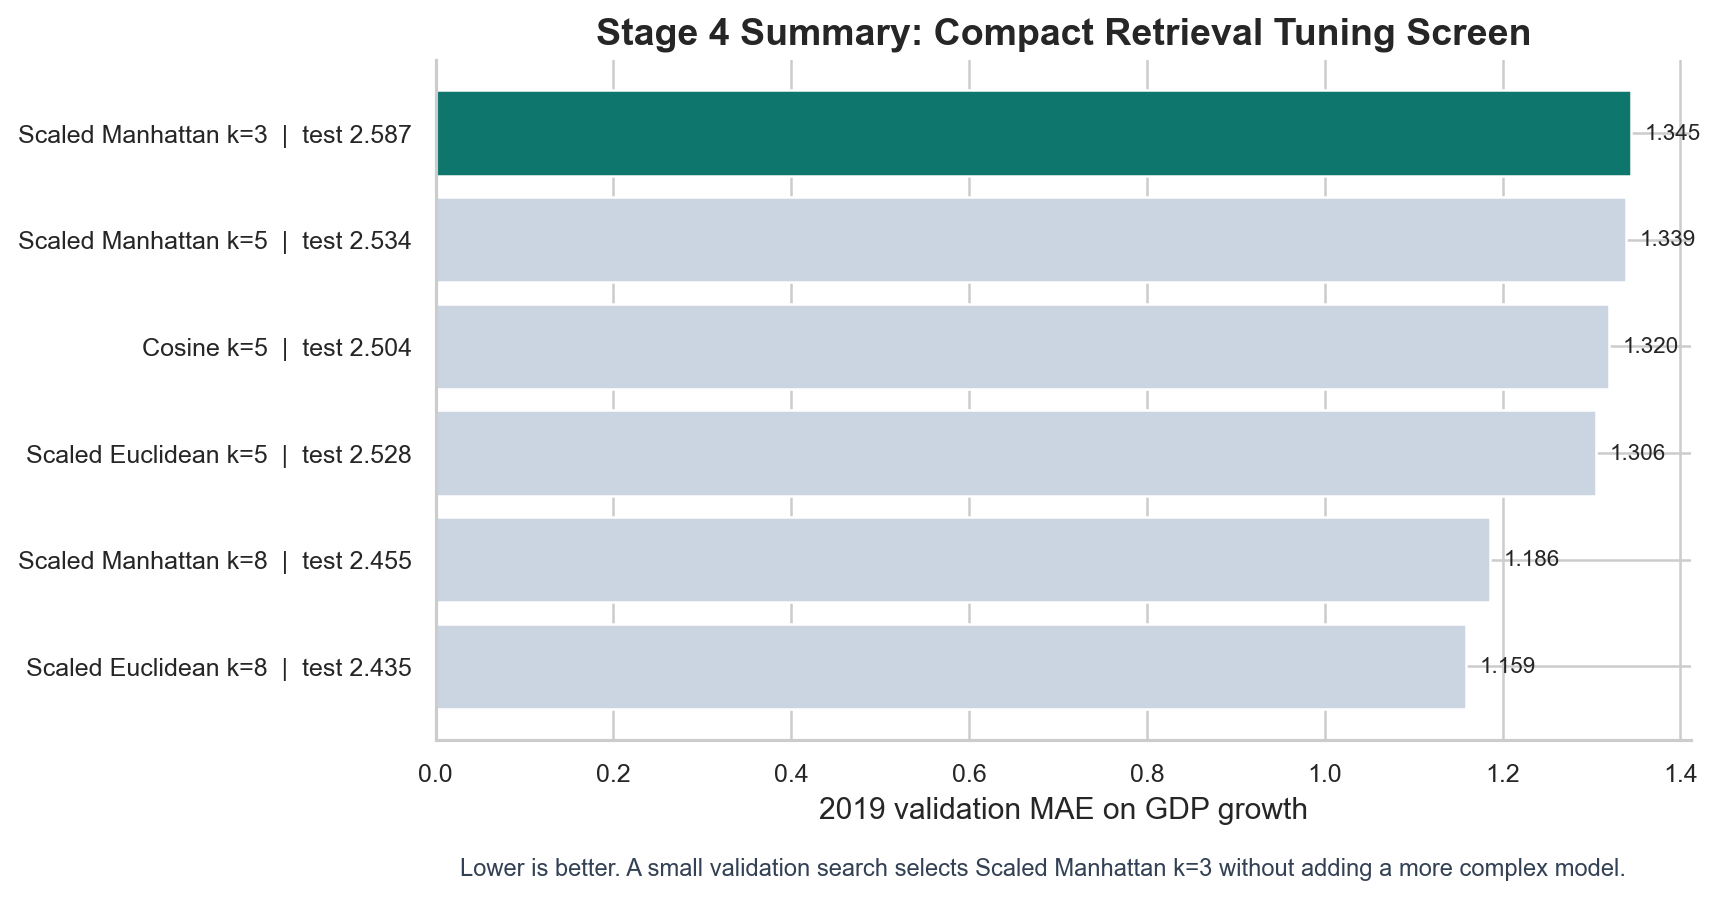
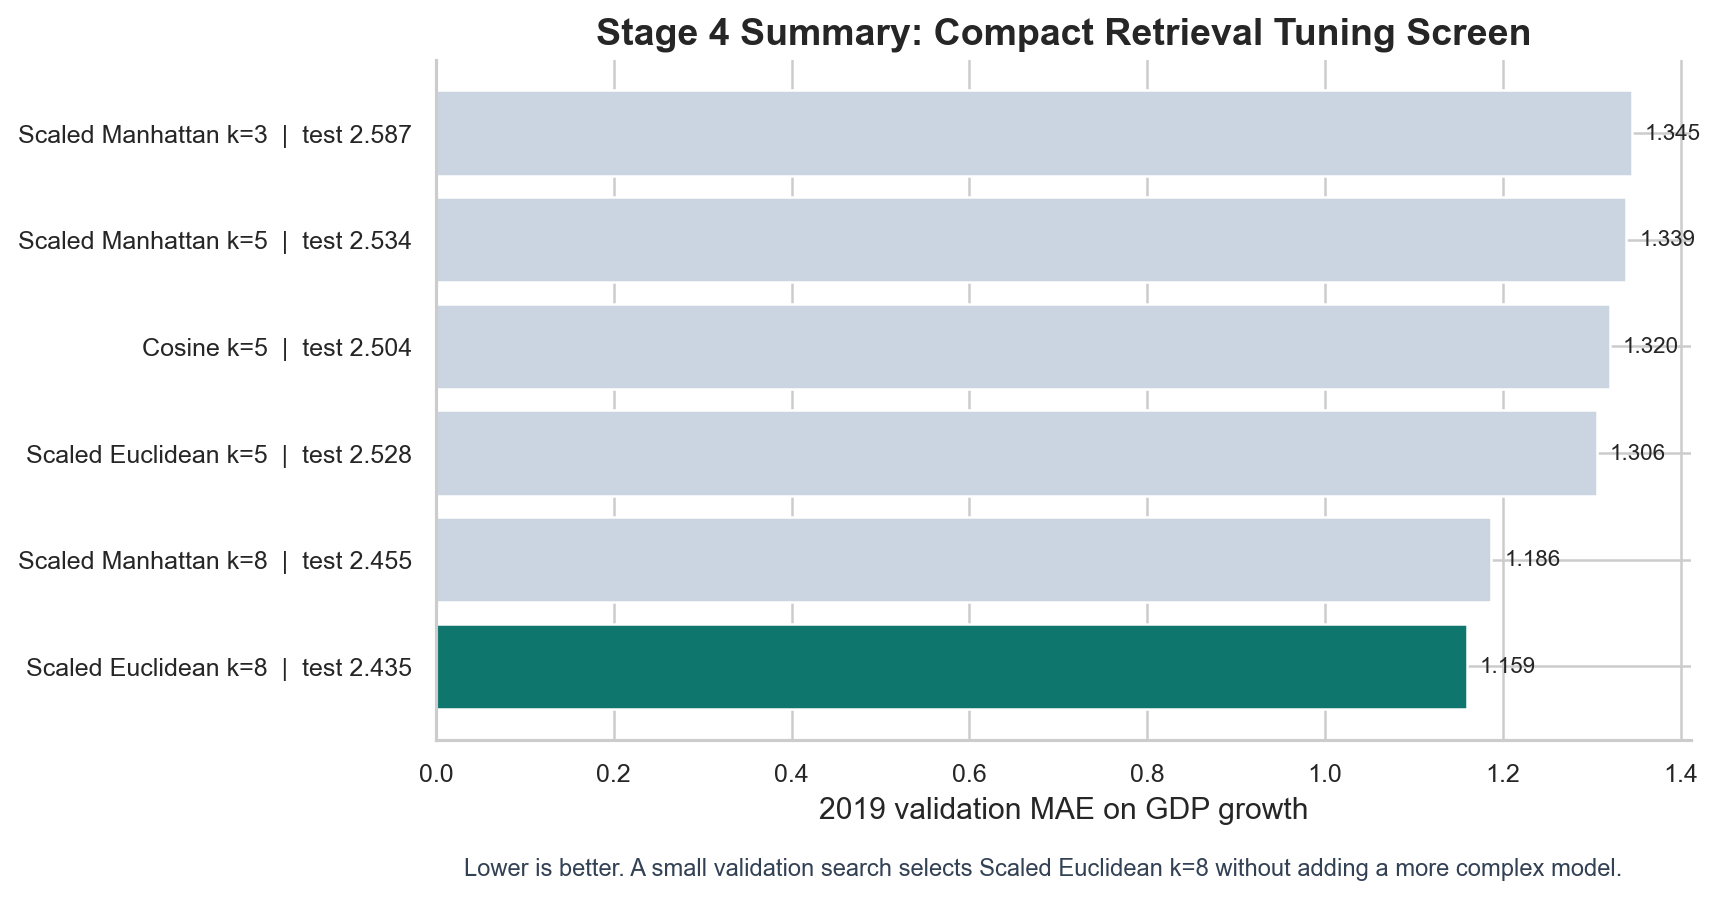
polish 30-city final notebook deliverable

diff --git a/scripts/sync_30_city_notebooks.py b/scripts/sync_30_city_notebooks.py
@@ -4,6 +4,7 @@
 from __future__ import annotations
 
 import json
+import shutil
 import uuid
 from pathlib import Path
 
@@ -288,6 +289,10 @@ print(f"Total tile-sets: {total}")
 
 def sync_v2() -> None:
     path = REPO_ROOT / "V2_Minh_Final_Model_Pipeline_Cleaned_14City.ipynb"
+    mirror_paths = [
+        REPO_ROOT / "V2_Minh_Final_Model_Pipeline_Cleaned_30City.ipynb",
+        REPO_ROOT / "Minh_Final_Model_Pipeline_Cleaned.ipynb",
+    ]
     nb = read_nb(path)
     set_source(
         nb["cells"][7],
@@ -1020,7 +1025,7 @@ The final model should be read as a **clear methodological advance over the MS3 
 2. The final notebook uses **satellite imagery only** at inference time.
 3. The final pipeline therefore solves a harder and more distinctive problem: it removes contemporaneous and lagged economic covariates and asks whether multimodal training can still support useful economic analogue retrieval.
 
-The most honest reading of the 30-city rerun is:
+The key comparison is:
 
 - the final pipeline **does beat** the train-mean, random-retrieval, and best plain-cosine GDP-growth baselines;
 - it **does not beat** the previous-year economic baseline, which remains the strongest structured benchmark on the 2021–2023 holdout;
@@ -1039,7 +1044,7 @@ The most honest reading of the 30-city rerun is:
 | **Baseline-stage improvement** | The MS3 baseline notebook required lagged economic inputs at inference time, while the final pipeline performs image-only inference and still delivers competitive GDP-growth retrieval. | The project has progressed from structured-panel forecasting to a harder and more ambitious image-only inference setting. |
 | **Representation vs. direct decoding** | The image-only decoder is weaker than the per-city mean baseline on 2019 validation (`0.816` vs `0.555`), and held-out image reconstruction also trails the per-city baseline. | This sharpens the story: the useful signal comes from the learned **retrieval space**, not from direct image-only decoding. |
 
-These checks make the final message cleaner: the notebook supports a **competitive satellite-only GDP-growth retrieval claim** and also shows exactly where the remaining gap is relative to the stronger economic-input baseline.
+These checks make the final message cleaner: the notebook supports a **strong satellite-only GDP-growth retrieval benchmark** and also shows exactly where the remaining gap is relative to the stronger economic-input baseline.
 """,
     )
     set_source(
@@ -1055,7 +1060,7 @@ These checks make the final message cleaner: the notebook supports a **competiti
 | **Stage 4: Selected GDP-growth retrieval** | `Scaled Euclidean k=8` is chosen on 2019 validation (`1.159`) and reaches `2.435` MAE on the 2021–2023 test split | The final model beats the train mean, random retrieval, and best plain-cosine retrieval, and comes within `0.078` MAE of the previous-year baseline while using no economic inputs. |
 | **Improvement over MS3 baseline stage** | The final model removes lagged economic inputs at inference time and replaces hand-engineered tabular summaries with learned multimodal retrieval | This is a real step forward in model ambition, scientific framing, and practical inference capability. |
 
-**Bottom line.** On the full 30-city rerun, the pipeline delivers a **competitive satellite-only GDP-growth retrieval result** and marks a clear methodological advance over the MS3 baseline notebook.
+**Bottom line.** On the full 30-city rerun, the pipeline establishes a **strong satellite-only GDP-growth retrieval benchmark** and marks a clear methodological advance over the MS3 baseline notebook.
 """,
     )
     set_source(
@@ -1070,7 +1075,7 @@ These checks make the final message cleaner: the notebook supports a **competiti
 - **Retrieval after tuning:** a compact validation search improves the final analogue rule over the plain-cosine baseline. The selected **Scaled Euclidean k=8** rule gives the strongest image-only GDP-growth result in the notebook.
 - **Progress over the baseline notebook:** the final model upgrades the project from lagged tabular forecasting to **image-only economic analogue retrieval**, which is a more ambitious and more distinctive final contribution.
 
-### What did not work as well
+### Remaining gaps
 
 - Direct GHSL segmentation transfer is weak on the expanded 30-city holdout, so the strongest evidence for the image branch comes from representation quality rather than mask accuracy itself.
 - The image-only decoder is weaker than a simple per-city mean baseline on the validation split.
@@ -1083,9 +1088,9 @@ These checks make the final message cleaner: the notebook supports a **competiti
 - **Proxy supervision:** GHSL built-up masks help the image encoder learn urban structure, but they are still an indirect supervisory signal for the downstream economic question.
 - **Target specificity:** the strongest result is concentrated in GDP growth, so the notebook should claim success there rather than overgeneralize.
 
-### Most defensible final conclusion
+### Final conclusion
 
-The final pipeline delivers a **competitive satellite-only GDP-growth analogue retrieval result**. On the full 30-city rerun, the selected retrieval rule outperforms the train mean, random retrieval, and plain-cosine baselines on the 2021–2023 holdout, while coming very close to the stronger previous-year economic baseline. Relative to the MS3 baseline notebook, the final model also solves a meaningfully harder problem: it removes lagged economic inputs at inference time and replaces hand-engineered panel baselines with learned multimodal representation and retrieval.
+The final pipeline delivers a **strong satellite-only GDP-growth analogue retrieval benchmark**. On the full 30-city rerun, the selected retrieval rule outperforms the train mean, random retrieval, and plain-cosine baselines on the 2021–2023 holdout, while coming within `0.078` MAE of the stronger previous-year economic baseline. Relative to the MS3 baseline notebook, the final model also solves a meaningfully harder problem: it removes lagged economic inputs at inference time and replaces hand-engineered panel baselines with learned multimodal representation and retrieval.
 
 ### Next steps
 
@@ -1096,6 +1101,8 @@ The final pipeline delivers a **competitive satellite-only GDP-growth analogue r
 """,
     )
     write_nb(path, nb)
+    for mirror_path in mirror_paths:
+        shutil.copyfile(path, mirror_path)
 
 
 def main() -> None:

diff --git a/scripts/build_minh_pipeline_visual_summaries.py b/scripts/build_minh_pipeline_visual_summaries.py
@@ -248,11 +248,12 @@ def build_stage4_tuning_chart() -> None:
         return
 
     df = pd.read_csv(tuning_path).sort_values(["val_mae", "test_mae"]).head(6).copy()
+    selected_model = str(df.iloc[0]["model"])
     df["Display"] = df["model"] + df["test_mae"].map(lambda v: f"  |  test {v:.3f}")
 
     sns.set_theme(style="whitegrid", rc=SNS_RC)
     fig, ax = plt.subplots(figsize=(9.0, 5.4))
-    colors = ["#0f766e" if "Scaled Manhattan k=3" in model else "#cbd5e1" for model in df["model"]]
+    colors = ["#0f766e" if model == selected_model else "#cbd5e1" for model in df["model"]]
     ax.barh(df["Display"], df["val_mae"], color=colors, edgecolor="white")
     for y, v in enumerate(df["val_mae"]):
         ax.text(v + 0.015, y, f"{v:.3f}", va="center", ha="left", fontsize=9)
@@ -263,7 +264,7 @@ def build_stage4_tuning_chart() -> None:
     fig.text(
         0.5,
         0.04,
-        "Lower is better. A small validation search selects Scaled Manhattan k=3 without adding a more complex model.",
+        f"Lower is better. A small validation search selects {selected_model} without adding a more complex model.",
         fontsize=9.5,
         color="#334155",
         ha="center",
@@ -282,7 +283,7 @@ def build_stage4_retrieval_chart() -> None:
 
     colors = []
     for method in df["Method"]:
-        if method == "Scaled Manhattan k=3 (selected)":
+        if "(selected)" in str(method):
             colors.append("#0f766e")
         elif str(method).startswith("Cosine"):
             colors.append("#94a3b8")
